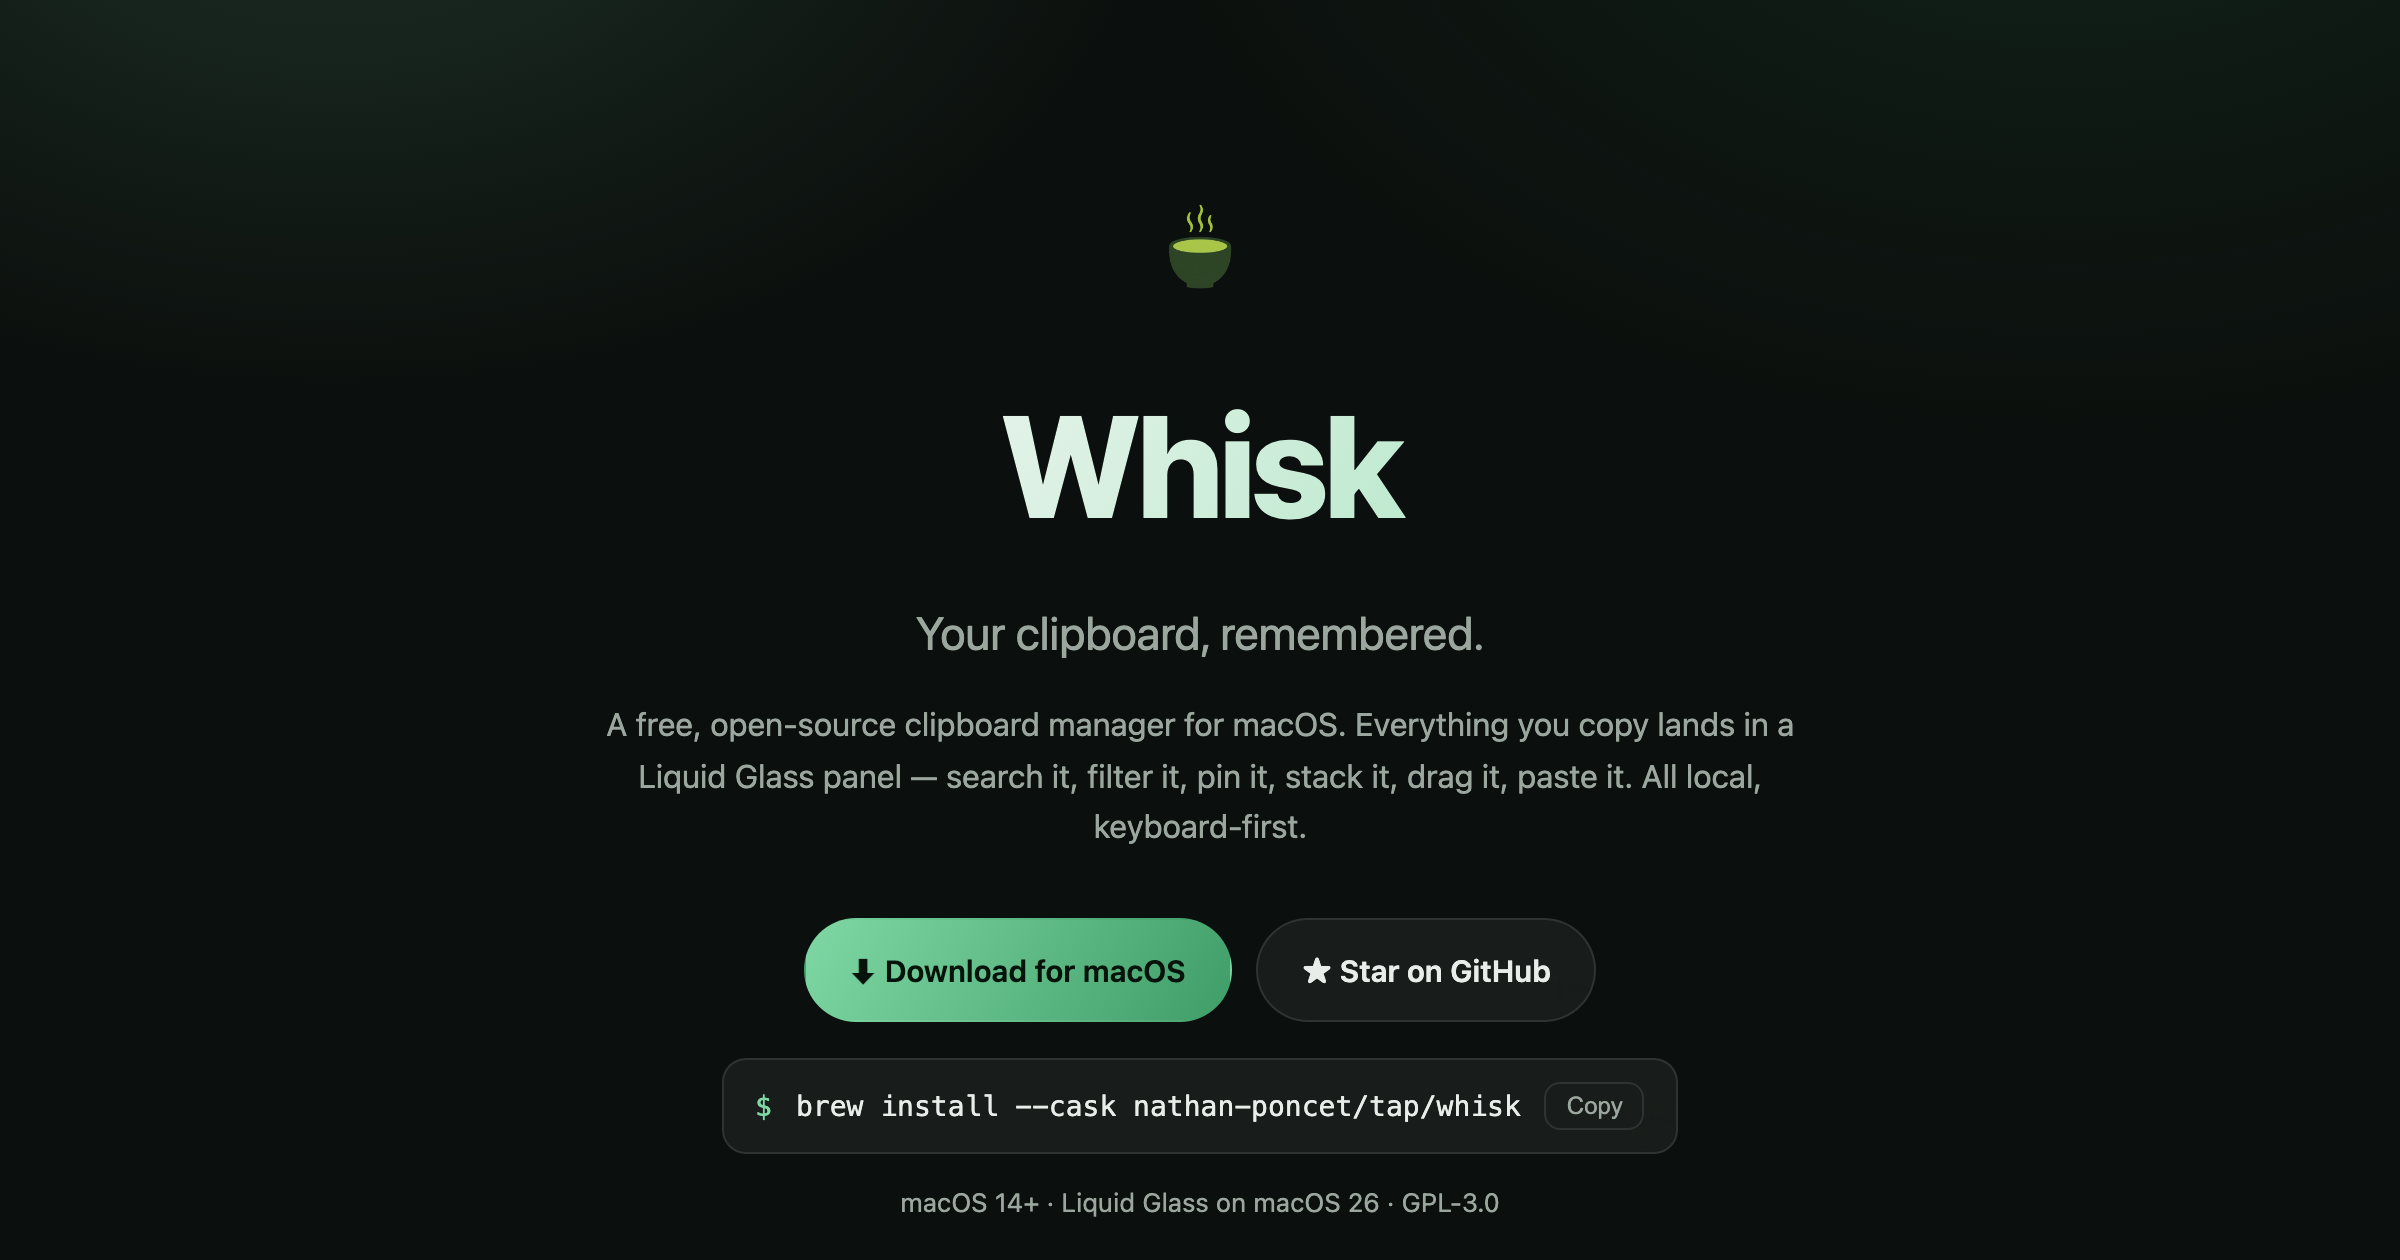
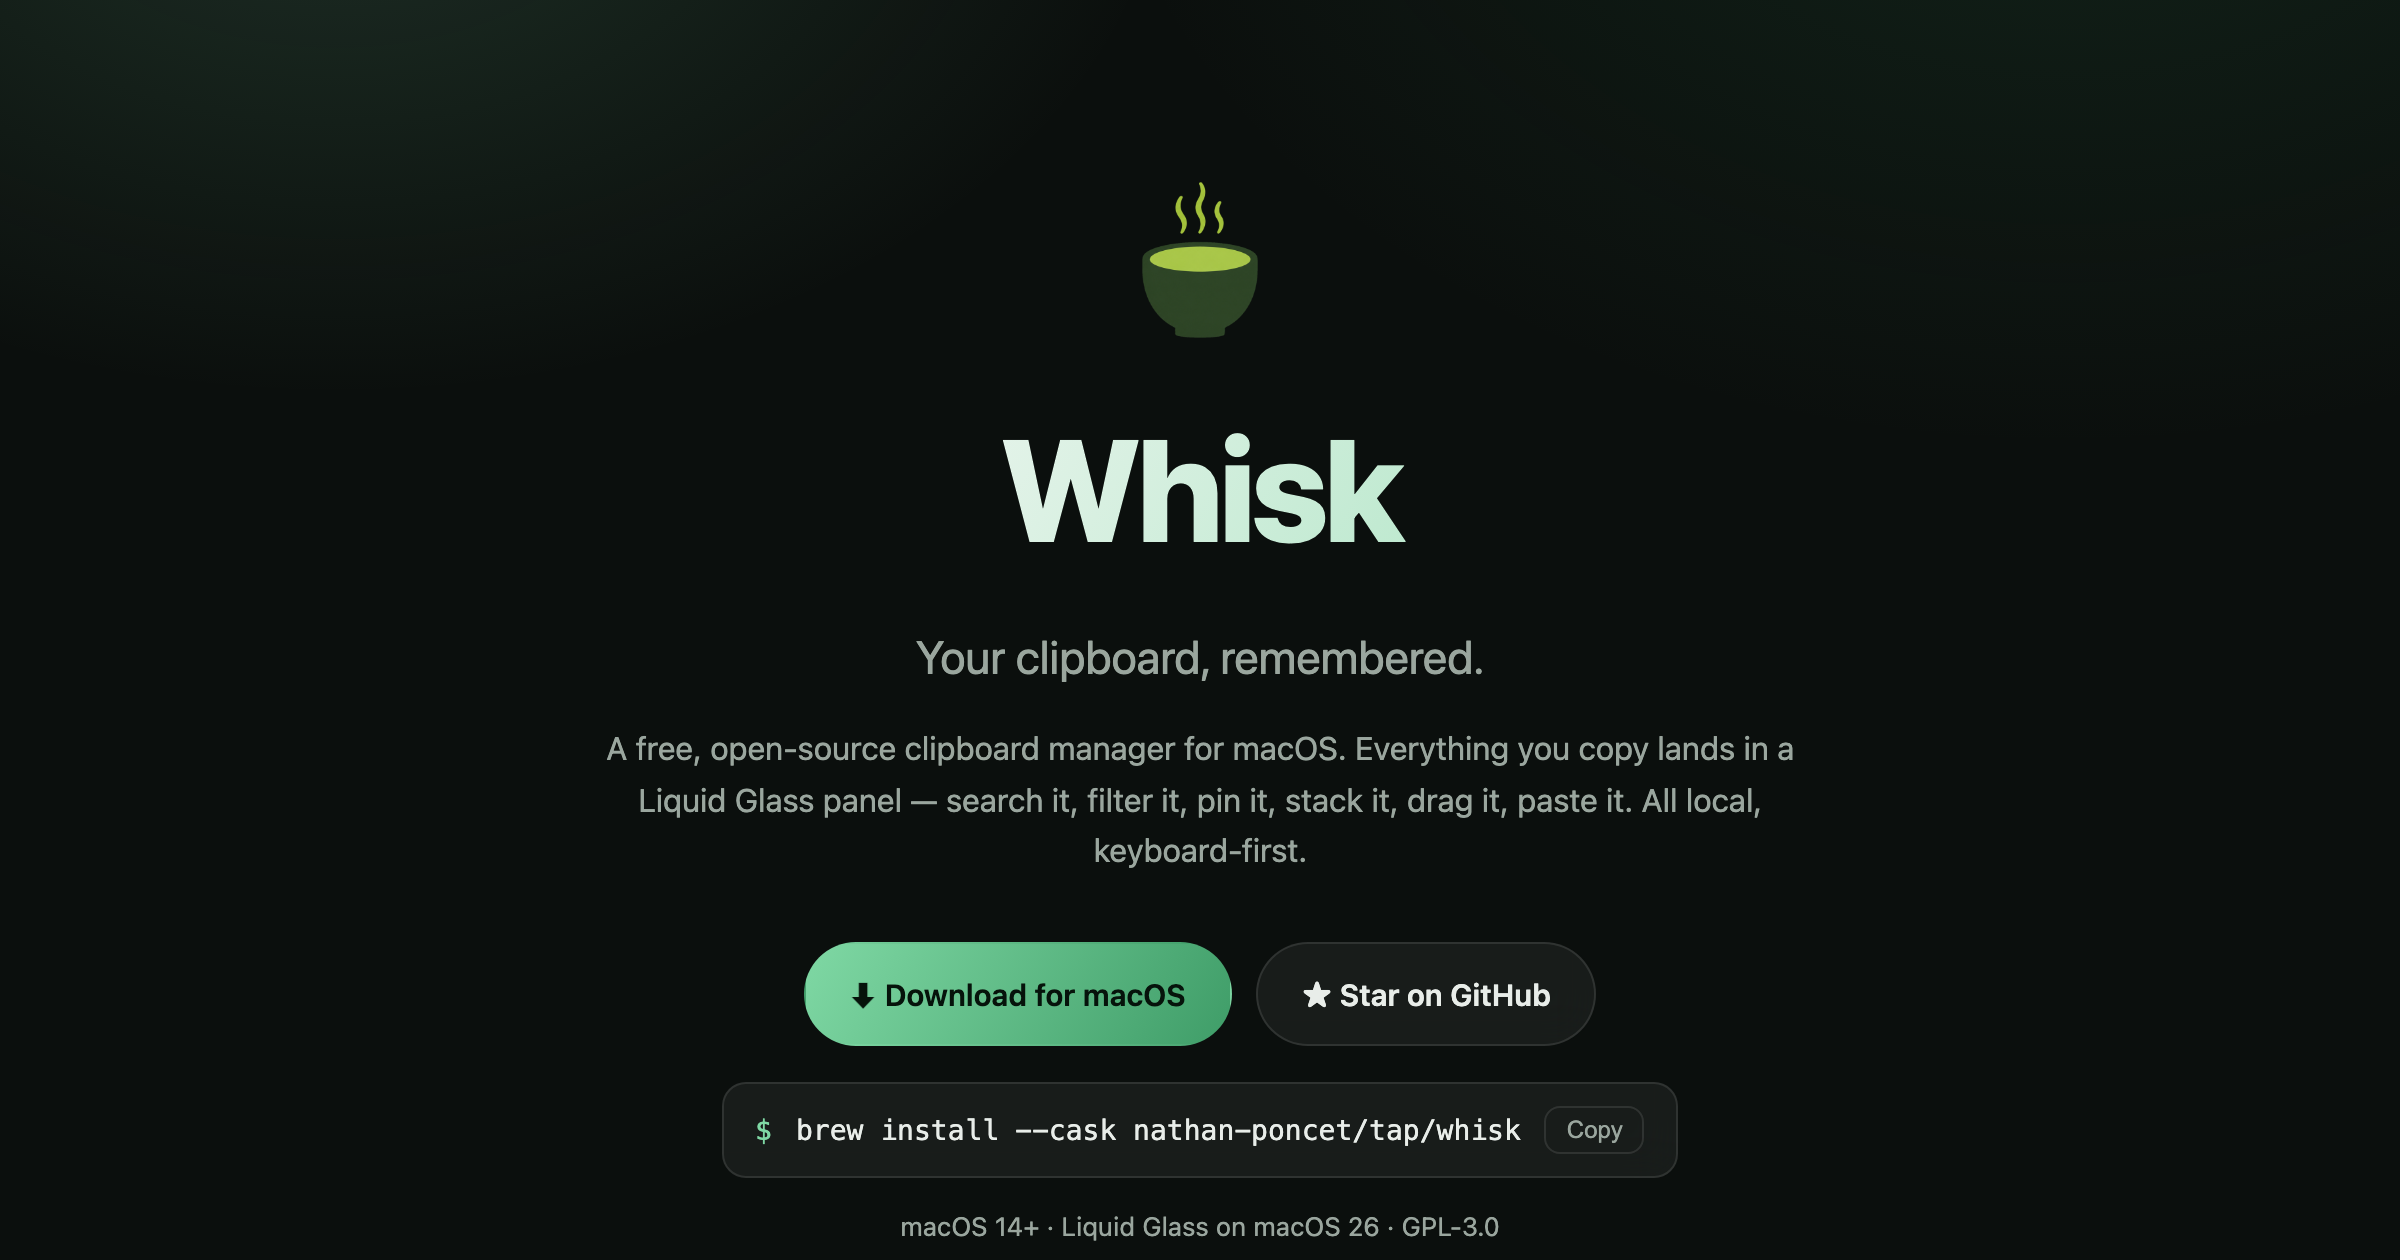
💄 The cup fills its own frame
Autocropped to the visible pixels and shown taller — no more tiny bowl
floating in an invisible canvas.

diff --git a/docs/index.html b/docs/index.html
@@ -51,7 +51,7 @@
 
     .hero { text-align: center; padding: 88px 0 40px; }
     .hero .mark { line-height: 1; }
-    .hero .mark img { width: 72px; height: 72px; }
+    .hero .mark img { height: 84px; width: auto; }
     .hero h1 {
       font-size: clamp(44px, 7vw, 72px);
       font-weight: 800;
@@ -293,7 +293,7 @@
 <body>
 <main>
   <div class="hero">
-    <div class="mark"><img src="media/logo-cup.png" alt="Whisk — a steaming matcha bowl" width="72" height="72"></div>
+    <div class="mark"><img src="media/logo-cup.png" alt="Whisk — a steaming matcha bowl" height="84"></div>
     <h1>Whisk</h1>
     <p class="tagline">Your clipboard, remembered.</p>
     <p class="sub">
@@ -398,7 +398,7 @@
         <p>Your history never leaves your Mac — no cloud, no account, no analytics. Password managers stay unrecorded, capture pauses in one click, and any app can be excluded for good.</p>
       </div>
       <div class="card">
-        <div class="icon"><img src="media/logo-cup.png" alt="" width="26" height="26" style="vertical-align: -4px"></div>
+        <div class="icon"><img src="media/logo-cup.png" alt="" height="28" style="vertical-align: -4px"></div>
         <h3>Yours, not rented</h3>
         <p>Free and open source, GPL — no subscription, no lock-in. Built in Swift with a clean, tested architecture: read it, build it, improve it.</p>
       </div>
